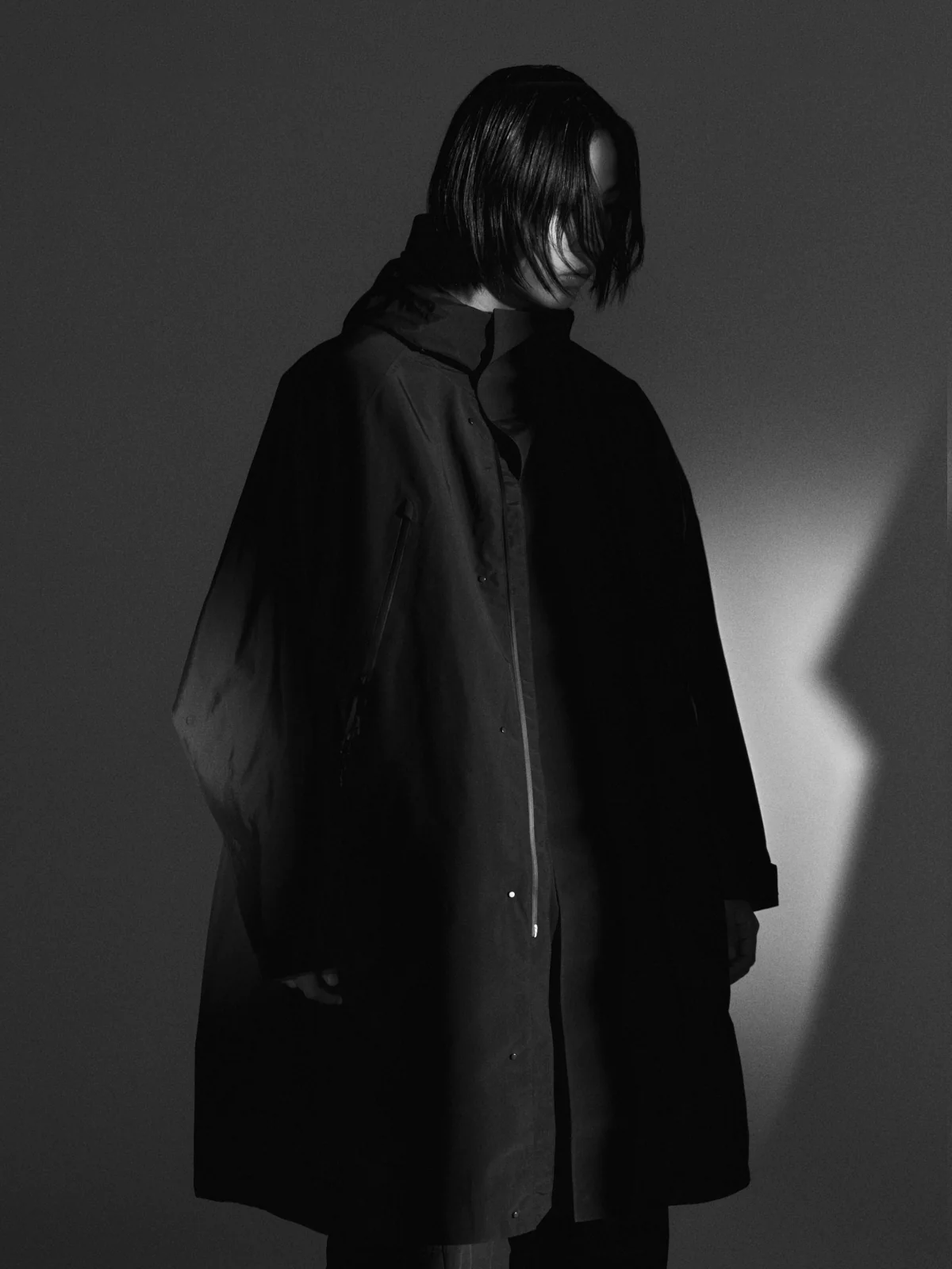
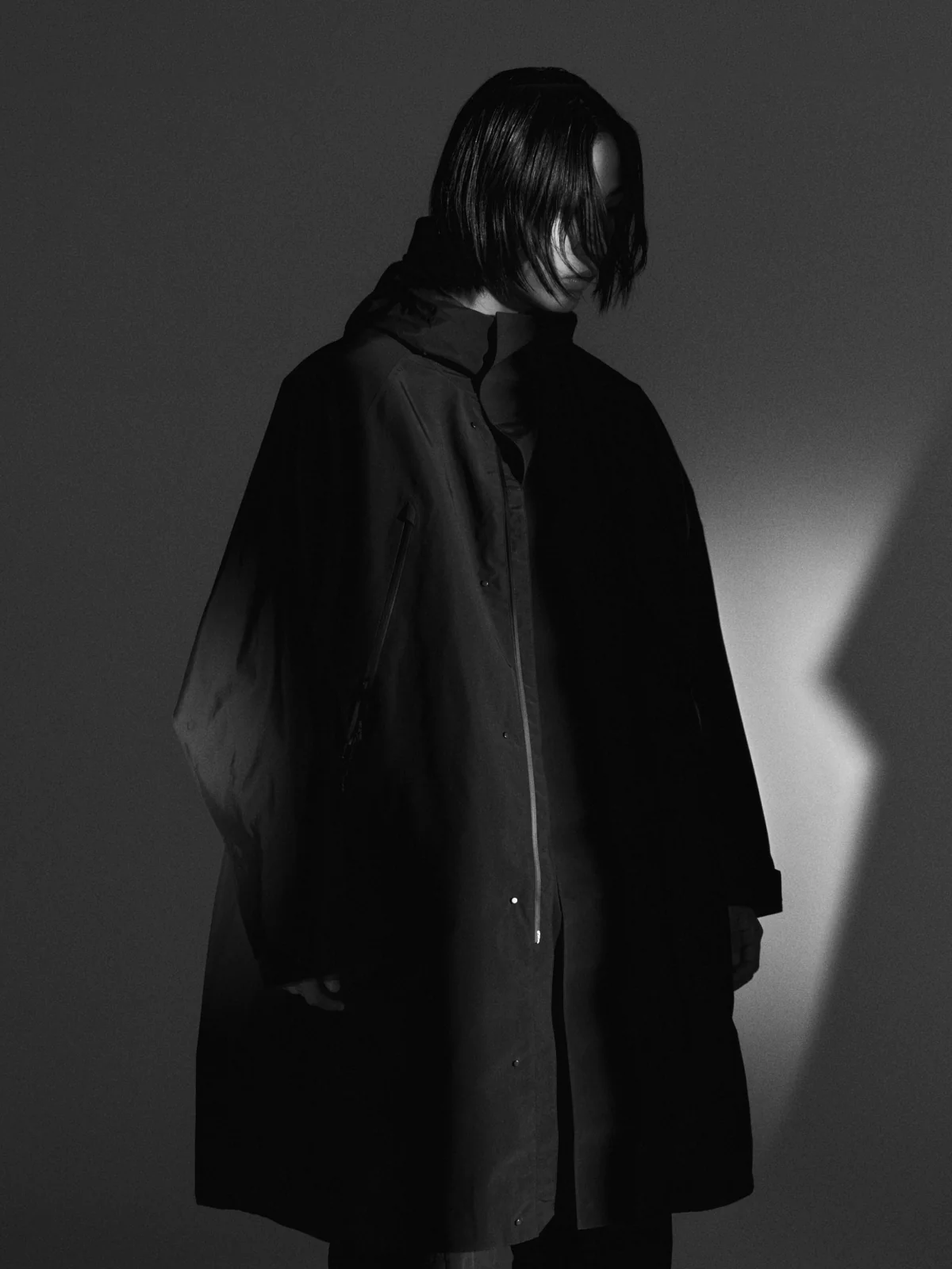
Collection: re-placed product shots, hover shot per card (Figma PD_Hover 2668:2497)

diff --git a/jp/index.html b/jp/index.html
@@ -38,7 +38,7 @@
   <link rel="stylesheet" href="https://cdn.jsdelivr.net/gh/orioncactus/pretendard@v1.3.9/dist/web/static/pretendard.min.css" />
   <link rel="stylesheet" href="https://fonts.googleapis.com/css2?family=Noto+Sans+JP:wght@400&display=swap" />
   <link rel="stylesheet" href="https://cdn.jsdelivr.net/gh/orioncactus/pretendard@v1.3.9/dist/web/static/pretendard-jp.min.css" />
-  <link rel="stylesheet" href="../style.css?v=20261012152353" />
+  <link rel="stylesheet" href="../style.css?v=20261012154044" />
   <script type="importmap">{ "imports": { "three": "https://unpkg.com/three@0.160.0/build/three.module.min.js" } }</script>
   <script>
     // The intro plays until it has been seen through once in this browsing
@@ -231,39 +231,39 @@
         <div class="collection__track" data-drag-scroll data-lenis-prevent-horizontal>
           <ul class="collection__strip">
           <li class="product">
-            <div class="product__media"><img src="../img/product-1@2x.webp" srcset="../img/product-1@1x.webp 600w, ../img/product-1@2x.webp 1200w" sizes="(max-width: 767px) 48vw, 315px" width="1200" height="1600" alt="" loading="lazy" /></div>
+            <div class="product__media"><img src="../img/product-1@2x.webp" srcset="../img/product-1@1x.webp 600w, ../img/product-1@2x.webp 1200w" sizes="(max-width: 767px) 48vw, 315px" width="1200" height="1600" alt="" loading="lazy" /><img src="../img/product-1-hover@2x.webp" srcset="../img/product-1-hover@1x.webp 600w, ../img/product-1-hover@2x.webp 1200w" sizes="(max-width: 767px) 48vw, 315px" width="1200" height="1600" alt="" loading="lazy" class="product__hover" /></div>
             <p class="product__name">SHELTER 3LAYER JUMPER</p>
           </li>
           <li class="product">
-            <div class="product__media"><img src="../img/product-2@2x.webp" srcset="../img/product-2@1x.webp 600w, ../img/product-2@2x.webp 1200w" sizes="(max-width: 767px) 48vw, 315px" width="1200" height="1600" alt="" loading="lazy" /></div>
+            <div class="product__media"><img src="../img/product-2@2x.webp" srcset="../img/product-2@1x.webp 600w, ../img/product-2@2x.webp 1200w" sizes="(max-width: 767px) 48vw, 315px" width="1200" height="1600" alt="" loading="lazy" /><img src="../img/product-2-hover@2x.webp" srcset="../img/product-2-hover@1x.webp 600w, ../img/product-2-hover@2x.webp 1200w" sizes="(max-width: 767px) 48vw, 315px" width="1200" height="1600" alt="" loading="lazy" class="product__hover" /></div>
             <p class="product__name">SHELTER 3LAYER JACKET</p>
           </li>
           <li class="product">
-            <div class="product__media"><img src="../img/product-3@2x.webp" srcset="../img/product-3@1x.webp 600w, ../img/product-3@2x.webp 1200w" sizes="(max-width: 767px) 48vw, 315px" width="1200" height="1600" alt="" loading="lazy" /></div>
+            <div class="product__media"><img src="../img/product-3@2x.webp" srcset="../img/product-3@1x.webp 600w, ../img/product-3@2x.webp 1200w" sizes="(max-width: 767px) 48vw, 315px" width="1200" height="1600" alt="" loading="lazy" /><img src="../img/product-3-hover@2x.webp" srcset="../img/product-3-hover@1x.webp 600w, ../img/product-3-hover@2x.webp 1200w" sizes="(max-width: 767px) 48vw, 315px" width="1200" height="1600" alt="" loading="lazy" class="product__hover" /></div>
             <p class="product__name">SHELTER 3LAYER COAT</p>
           </li>
           <li class="product">
-            <div class="product__media"><img src="../img/product-4@2x.webp" srcset="../img/product-4@1x.webp 600w, ../img/product-4@2x.webp 1200w" sizes="(max-width: 767px) 48vw, 315px" width="1200" height="1600" alt="" loading="lazy" /></div>
+            <div class="product__media"><img src="../img/product-4@2x.webp" srcset="../img/product-4@1x.webp 600w, ../img/product-4@2x.webp 1200w" sizes="(max-width: 767px) 48vw, 315px" width="1200" height="1600" alt="" loading="lazy" /><img src="../img/product-4-hover@2x.webp" srcset="../img/product-4-hover@1x.webp 600w, ../img/product-4-hover@2x.webp 1200w" sizes="(max-width: 767px) 48vw, 315px" width="1200" height="1600" alt="" loading="lazy" class="product__hover" /></div>
             <p class="product__name">EXOSHELL GOOSE DOWN PARKA</p>
           </li>
           <li class="product">
-            <div class="product__media"><img src="../img/product-5@2x.webp" srcset="../img/product-5@1x.webp 600w, ../img/product-5@2x.webp 1200w" sizes="(max-width: 767px) 48vw, 315px" width="1200" height="1600" alt="" loading="lazy" /></div>
+            <div class="product__media"><img src="../img/product-5@2x.webp" srcset="../img/product-5@1x.webp 600w, ../img/product-5@2x.webp 1200w" sizes="(max-width: 767px) 48vw, 315px" width="1200" height="1600" alt="" loading="lazy" /><img src="../img/product-5-hover@2x.webp" srcset="../img/product-5-hover@1x.webp 600w, ../img/product-5-hover@2x.webp 1200w" sizes="(max-width: 767px) 48vw, 315px" width="1200" height="1600" alt="" loading="lazy" class="product__hover" /></div>
             <p class="product__name">FRAME WOVEN S/S TEE</p>
           </li>
           <li class="product">
-            <div class="product__media"><img src="../img/product-6@2x.webp" srcset="../img/product-6@1x.webp 600w, ../img/product-6@2x.webp 1200w" sizes="(max-width: 767px) 48vw, 315px" width="1200" height="1600" alt="" loading="lazy" /></div>
+            <div class="product__media"><img src="../img/product-6@2x.webp" srcset="../img/product-6@1x.webp 600w, ../img/product-6@2x.webp 1200w" sizes="(max-width: 767px) 48vw, 315px" width="1200" height="1600" alt="" loading="lazy" /><img src="../img/product-6-hover@2x.webp" srcset="../img/product-6-hover@1x.webp 600w, ../img/product-6-hover@2x.webp 1200w" sizes="(max-width: 767px) 48vw, 315px" width="1200" height="1600" alt="" loading="lazy" class="product__hover" /></div>
             <p class="product__name">FRAME WAFFLE L/S TEE</p>
           </li>
           <li class="product">
-            <div class="product__media"><img src="../img/product-7@2x.webp" srcset="../img/product-7@1x.webp 600w, ../img/product-7@2x.webp 1200w" sizes="(max-width: 767px) 48vw, 315px" width="1200" height="1600" alt="" loading="lazy" /></div>
+            <div class="product__media"><img src="../img/product-7@2x.webp" srcset="../img/product-7@1x.webp 600w, ../img/product-7@2x.webp 1200w" sizes="(max-width: 767px) 48vw, 315px" width="1200" height="1600" alt="" loading="lazy" /><img src="../img/product-7-hover@2x.webp" srcset="../img/product-7-hover@1x.webp 600w, ../img/product-7-hover@2x.webp 1200w" sizes="(max-width: 767px) 48vw, 315px" width="1200" height="1600" alt="" loading="lazy" class="product__hover" /></div>
             <p class="product__name">FRAME TWILL HOODIE</p>
           </li>
           <li class="product">
-            <div class="product__media"><img src="../img/product-8@2x.webp" srcset="../img/product-8@1x.webp 600w, ../img/product-8@2x.webp 1200w" sizes="(max-width: 767px) 48vw, 315px" width="1200" height="1600" alt="" loading="lazy" /></div>
+            <div class="product__media"><img src="../img/product-8@2x.webp" srcset="../img/product-8@1x.webp 600w, ../img/product-8@2x.webp 1200w" sizes="(max-width: 767px) 48vw, 315px" width="1200" height="1600" alt="" loading="lazy" /><img src="../img/product-8-hover@2x.webp" srcset="../img/product-8-hover@1x.webp 600w, ../img/product-8-hover@2x.webp 1200w" sizes="(max-width: 767px) 48vw, 315px" width="1200" height="1600" alt="" loading="lazy" class="product__hover" /></div>
             <p class="product__name">SHELTER NYLON TROUSERS</p>
           </li>
           <li class="product">
-            <div class="product__media"><img src="../img/product-9@2x.webp" srcset="../img/product-9@1x.webp 600w, ../img/product-9@2x.webp 1200w" sizes="(max-width: 767px) 48vw, 315px" width="1200" height="1600" alt="" loading="lazy" /></div>
+            <div class="product__media"><img src="../img/product-9@2x.webp" srcset="../img/product-9@1x.webp 600w, ../img/product-9@2x.webp 1200w" sizes="(max-width: 767px) 48vw, 315px" width="1200" height="1600" alt="" loading="lazy" /><img src="../img/product-9-hover@2x.webp" srcset="../img/product-9-hover@1x.webp 600w, ../img/product-9-hover@2x.webp 1200w" sizes="(max-width: 767px) 48vw, 315px" width="1200" height="1600" alt="" loading="lazy" class="product__hover" /></div>
             <p class="product__name">SHELTER CORDUROY TROUSERS</p>
           </li>
           </ul>
@@ -293,7 +293,7 @@
   </main>
 
   <script src="https://cdn.jsdelivr.net/npm/lenis@1.3.26/dist/lenis.min.js"></script>
-  <script src="../main.js?v=20261012152353"></script>
-  <script type="module" src="../intro/intro.js?v=20261012152353" onerror="window.aansSkipIntro && window.aansSkipIntro()"></script>
+  <script src="../main.js?v=20261012154044"></script>
+  <script type="module" src="../intro/intro.js?v=20261012154044" onerror="window.aansSkipIntro && window.aansSkipIntro()"></script>
 </body>
 </html>

diff --git a/kr/index.html b/kr/index.html
@@ -36,7 +36,7 @@
   <link rel="preconnect" href="https://fonts.gstatic.com" crossorigin />
   <link rel="stylesheet" href="https://fonts.googleapis.com/css2?family=Oswald:wght@300;400;500&display=swap" />
   <link rel="stylesheet" href="https://cdn.jsdelivr.net/gh/orioncactus/pretendard@v1.3.9/dist/web/static/pretendard.min.css" />
-  <link rel="stylesheet" href="../style.css?v=20261012152353" />
+  <link rel="stylesheet" href="../style.css?v=20261012154044" />
   <script type="importmap">{ "imports": { "three": "https://unpkg.com/three@0.160.0/build/three.module.min.js" } }</script>
   <script>
     // The intro plays until it has been seen through once in this browsing
@@ -229,39 +229,39 @@
         <div class="collection__track" data-drag-scroll data-lenis-prevent-horizontal>
           <ul class="collection__strip">
           <li class="product">
-            <div class="product__media"><img src="../img/product-1@2x.webp" srcset="../img/product-1@1x.webp 600w, ../img/product-1@2x.webp 1200w" sizes="(max-width: 767px) 48vw, 315px" width="1200" height="1600" alt="" loading="lazy" /></div>
+            <div class="product__media"><img src="../img/product-1@2x.webp" srcset="../img/product-1@1x.webp 600w, ../img/product-1@2x.webp 1200w" sizes="(max-width: 767px) 48vw, 315px" width="1200" height="1600" alt="" loading="lazy" /><img src="../img/product-1-hover@2x.webp" srcset="../img/product-1-hover@1x.webp 600w, ../img/product-1-hover@2x.webp 1200w" sizes="(max-width: 767px) 48vw, 315px" width="1200" height="1600" alt="" loading="lazy" class="product__hover" /></div>
             <p class="product__name">SHELTER 3LAYER JUMPER</p>
           </li>
           <li class="product">
-            <div class="product__media"><img src="../img/product-2@2x.webp" srcset="../img/product-2@1x.webp 600w, ../img/product-2@2x.webp 1200w" sizes="(max-width: 767px) 48vw, 315px" width="1200" height="1600" alt="" loading="lazy" /></div>
+            <div class="product__media"><img src="../img/product-2@2x.webp" srcset="../img/product-2@1x.webp 600w, ../img/product-2@2x.webp 1200w" sizes="(max-width: 767px) 48vw, 315px" width="1200" height="1600" alt="" loading="lazy" /><img src="../img/product-2-hover@2x.webp" srcset="../img/product-2-hover@1x.webp 600w, ../img/product-2-hover@2x.webp 1200w" sizes="(max-width: 767px) 48vw, 315px" width="1200" height="1600" alt="" loading="lazy" class="product__hover" /></div>
             <p class="product__name">SHELTER 3LAYER JACKET</p>
           </li>
           <li class="product">
-            <div class="product__media"><img src="../img/product-3@2x.webp" srcset="../img/product-3@1x.webp 600w, ../img/product-3@2x.webp 1200w" sizes="(max-width: 767px) 48vw, 315px" width="1200" height="1600" alt="" loading="lazy" /></div>
+            <div class="product__media"><img src="../img/product-3@2x.webp" srcset="../img/product-3@1x.webp 600w, ../img/product-3@2x.webp 1200w" sizes="(max-width: 767px) 48vw, 315px" width="1200" height="1600" alt="" loading="lazy" /><img src="../img/product-3-hover@2x.webp" srcset="../img/product-3-hover@1x.webp 600w, ../img/product-3-hover@2x.webp 1200w" sizes="(max-width: 767px) 48vw, 315px" width="1200" height="1600" alt="" loading="lazy" class="product__hover" /></div>
             <p class="product__name">SHELTER 3LAYER COAT</p>
           </li>
           <li class="product">
-            <div class="product__media"><img src="../img/product-4@2x.webp" srcset="../img/product-4@1x.webp 600w, ../img/product-4@2x.webp 1200w" sizes="(max-width: 767px) 48vw, 315px" width="1200" height="1600" alt="" loading="lazy" /></div>
+            <div class="product__media"><img src="../img/product-4@2x.webp" srcset="../img/product-4@1x.webp 600w, ../img/product-4@2x.webp 1200w" sizes="(max-width: 767px) 48vw, 315px" width="1200" height="1600" alt="" loading="lazy" /><img src="../img/product-4-hover@2x.webp" srcset="../img/product-4-hover@1x.webp 600w, ../img/product-4-hover@2x.webp 1200w" sizes="(max-width: 767px) 48vw, 315px" width="1200" height="1600" alt="" loading="lazy" class="product__hover" /></div>
             <p class="product__name">EXOSHELL GOOSE DOWN PARKA</p>
           </li>
           <li class="product">
-            <div class="product__media"><img src="../img/product-5@2x.webp" srcset="../img/product-5@1x.webp 600w, ../img/product-5@2x.webp 1200w" sizes="(max-width: 767px) 48vw, 315px" width="1200" height="1600" alt="" loading="lazy" /></div>
+            <div class="product__media"><img src="../img/product-5@2x.webp" srcset="../img/product-5@1x.webp 600w, ../img/product-5@2x.webp 1200w" sizes="(max-width: 767px) 48vw, 315px" width="1200" height="1600" alt="" loading="lazy" /><img src="../img/product-5-hover@2x.webp" srcset="../img/product-5-hover@1x.webp 600w, ../img/product-5-hover@2x.webp 1200w" sizes="(max-width: 767px) 48vw, 315px" width="1200" height="1600" alt="" loading="lazy" class="product__hover" /></div>
             <p class="product__name">FRAME WOVEN S/S TEE</p>
           </li>
           <li class="product">
-            <div class="product__media"><img src="../img/product-6@2x.webp" srcset="../img/product-6@1x.webp 600w, ../img/product-6@2x.webp 1200w" sizes="(max-width: 767px) 48vw, 315px" width="1200" height="1600" alt="" loading="lazy" /></div>
+            <div class="product__media"><img src="../img/product-6@2x.webp" srcset="../img/product-6@1x.webp 600w, ../img/product-6@2x.webp 1200w" sizes="(max-width: 767px) 48vw, 315px" width="1200" height="1600" alt="" loading="lazy" /><img src="../img/product-6-hover@2x.webp" srcset="../img/product-6-hover@1x.webp 600w, ../img/product-6-hover@2x.webp 1200w" sizes="(max-width: 767px) 48vw, 315px" width="1200" height="1600" alt="" loading="lazy" class="product__hover" /></div>
             <p class="product__name">FRAME WAFFLE L/S TEE</p>
           </li>
           <li class="product">
-            <div class="product__media"><img src="../img/product-7@2x.webp" srcset="../img/product-7@1x.webp 600w, ../img/product-7@2x.webp 1200w" sizes="(max-width: 767px) 48vw, 315px" width="1200" height="1600" alt="" loading="lazy" /></div>
+            <div class="product__media"><img src="../img/product-7@2x.webp" srcset="../img/product-7@1x.webp 600w, ../img/product-7@2x.webp 1200w" sizes="(max-width: 767px) 48vw, 315px" width="1200" height="1600" alt="" loading="lazy" /><img src="../img/product-7-hover@2x.webp" srcset="../img/product-7-hover@1x.webp 600w, ../img/product-7-hover@2x.webp 1200w" sizes="(max-width: 767px) 48vw, 315px" width="1200" height="1600" alt="" loading="lazy" class="product__hover" /></div>
             <p class="product__name">FRAME TWILL HOODIE</p>
           </li>
           <li class="product">
-            <div class="product__media"><img src="../img/product-8@2x.webp" srcset="../img/product-8@1x.webp 600w, ../img/product-8@2x.webp 1200w" sizes="(max-width: 767px) 48vw, 315px" width="1200" height="1600" alt="" loading="lazy" /></div>
+            <div class="product__media"><img src="../img/product-8@2x.webp" srcset="../img/product-8@1x.webp 600w, ../img/product-8@2x.webp 1200w" sizes="(max-width: 767px) 48vw, 315px" width="1200" height="1600" alt="" loading="lazy" /><img src="../img/product-8-hover@2x.webp" srcset="../img/product-8-hover@1x.webp 600w, ../img/product-8-hover@2x.webp 1200w" sizes="(max-width: 767px) 48vw, 315px" width="1200" height="1600" alt="" loading="lazy" class="product__hover" /></div>
             <p class="product__name">SHELTER NYLON TROUSERS</p>
           </li>
           <li class="product">
-            <div class="product__media"><img src="../img/product-9@2x.webp" srcset="../img/product-9@1x.webp 600w, ../img/product-9@2x.webp 1200w" sizes="(max-width: 767px) 48vw, 315px" width="1200" height="1600" alt="" loading="lazy" /></div>
+            <div class="product__media"><img src="../img/product-9@2x.webp" srcset="../img/product-9@1x.webp 600w, ../img/product-9@2x.webp 1200w" sizes="(max-width: 767px) 48vw, 315px" width="1200" height="1600" alt="" loading="lazy" /><img src="../img/product-9-hover@2x.webp" srcset="../img/product-9-hover@1x.webp 600w, ../img/product-9-hover@2x.webp 1200w" sizes="(max-width: 767px) 48vw, 315px" width="1200" height="1600" alt="" loading="lazy" class="product__hover" /></div>
             <p class="product__name">SHELTER CORDUROY TROUSERS</p>
           </li>
           </ul>
@@ -291,7 +291,7 @@
   </main>
 
   <script src="https://cdn.jsdelivr.net/npm/lenis@1.3.26/dist/lenis.min.js"></script>
-  <script src="../main.js?v=20261012152353"></script>
-  <script type="module" src="../intro/intro.js?v=20261012152353" onerror="window.aansSkipIntro && window.aansSkipIntro()"></script>
+  <script src="../main.js?v=20261012154044"></script>
+  <script type="module" src="../intro/intro.js?v=20261012154044" onerror="window.aansSkipIntro && window.aansSkipIntro()"></script>
 </body>
 </html>

diff --git a/index.html b/index.html
@@ -37,7 +37,7 @@
   <link rel="stylesheet" href="https://fonts.googleapis.com/css2?family=Oswald:wght@300;400;500&display=swap" />
   <link rel="stylesheet" href="https://cdn.jsdelivr.net/gh/orioncactus/pretendard@v1.3.9/dist/web/static/pretendard.min.css" />
   <link rel="stylesheet" href="https://fonts.googleapis.com/css2?family=Inter:wght@400&display=swap" />
-  <link rel="stylesheet" href="style.css?v=20261012152353" />
+  <link rel="stylesheet" href="style.css?v=20261012154044" />
   <script type="importmap">{ "imports": { "three": "https://unpkg.com/three@0.160.0/build/three.module.min.js" } }</script>
   <script>
     // The intro plays until it has been seen through once in this browsing
@@ -230,39 +230,39 @@
         <div class="collection__track" data-drag-scroll data-lenis-prevent-horizontal>
           <ul class="collection__strip">
           <li class="product">
-            <div class="product__media"><img src="img/product-1@2x.webp" srcset="img/product-1@1x.webp 600w, img/product-1@2x.webp 1200w" sizes="(max-width: 767px) 48vw, 315px" width="1200" height="1600" alt="" loading="lazy" /></div>
+            <div class="product__media"><img src="img/product-1@2x.webp" srcset="img/product-1@1x.webp 600w, img/product-1@2x.webp 1200w" sizes="(max-width: 767px) 48vw, 315px" width="1200" height="1600" alt="" loading="lazy" /><img src="img/product-1-hover@2x.webp" srcset="img/product-1-hover@1x.webp 600w, img/product-1-hover@2x.webp 1200w" sizes="(max-width: 767px) 48vw, 315px" width="1200" height="1600" alt="" loading="lazy" class="product__hover" /></div>
             <p class="product__name">SHELTER 3LAYER JUMPER</p>
           </li>
           <li class="product">
-            <div class="product__media"><img src="img/product-2@2x.webp" srcset="img/product-2@1x.webp 600w, img/product-2@2x.webp 1200w" sizes="(max-width: 767px) 48vw, 315px" width="1200" height="1600" alt="" loading="lazy" /></div>
+            <div class="product__media"><img src="img/product-2@2x.webp" srcset="img/product-2@1x.webp 600w, img/product-2@2x.webp 1200w" sizes="(max-width: 767px) 48vw, 315px" width="1200" height="1600" alt="" loading="lazy" /><img src="img/product-2-hover@2x.webp" srcset="img/product-2-hover@1x.webp 600w, img/product-2-hover@2x.webp 1200w" sizes="(max-width: 767px) 48vw, 315px" width="1200" height="1600" alt="" loading="lazy" class="product__hover" /></div>
             <p class="product__name">SHELTER 3LAYER JACKET</p>
           </li>
           <li class="product">
-            <div class="product__media"><img src="img/product-3@2x.webp" srcset="img/product-3@1x.webp 600w, img/product-3@2x.webp 1200w" sizes="(max-width: 767px) 48vw, 315px" width="1200" height="1600" alt="" loading="lazy" /></div>
+            <div class="product__media"><img src="img/product-3@2x.webp" srcset="img/product-3@1x.webp 600w, img/product-3@2x.webp 1200w" sizes="(max-width: 767px) 48vw, 315px" width="1200" height="1600" alt="" loading="lazy" /><img src="img/product-3-hover@2x.webp" srcset="img/product-3-hover@1x.webp 600w, img/product-3-hover@2x.webp 1200w" sizes="(max-width: 767px) 48vw, 315px" width="1200" height="1600" alt="" loading="lazy" class="product__hover" /></div>
             <p class="product__name">SHELTER 3LAYER COAT</p>
           </li>
           <li class="product">
-            <div class="product__media"><img src="img/product-4@2x.webp" srcset="img/product-4@1x.webp 600w, img/product-4@2x.webp 1200w" sizes="(max-width: 767px) 48vw, 315px" width="1200" height="1600" alt="" loading="lazy" /></div>
+            <div class="product__media"><img src="img/product-4@2x.webp" srcset="img/product-4@1x.webp 600w, img/product-4@2x.webp 1200w" sizes="(max-width: 767px) 48vw, 315px" width="1200" height="1600" alt="" loading="lazy" /><img src="img/product-4-hover@2x.webp" srcset="img/product-4-hover@1x.webp 600w, img/product-4-hover@2x.webp 1200w" sizes="(max-width: 767px) 48vw, 315px" width="1200" height="1600" alt="" loading="lazy" class="product__hover" /></div>
             <p class="product__name">EXOSHELL GOOSE DOWN PARKA</p>
           </li>
           <li class="product">
-            <div class="product__media"><img src="img/product-5@2x.webp" srcset="img/product-5@1x.webp 600w, img/product-5@2x.webp 1200w" sizes="(max-width: 767px) 48vw, 315px" width="1200" height="1600" alt="" loading="lazy" /></div>
+            <div class="product__media"><img src="img/product-5@2x.webp" srcset="img/product-5@1x.webp 600w, img/product-5@2x.webp 1200w" sizes="(max-width: 767px) 48vw, 315px" width="1200" height="1600" alt="" loading="lazy" /><img src="img/product-5-hover@2x.webp" srcset="img/product-5-hover@1x.webp 600w, img/product-5-hover@2x.webp 1200w" sizes="(max-width: 767px) 48vw, 315px" width="1200" height="1600" alt="" loading="lazy" class="product__hover" /></div>
             <p class="product__name">FRAME WOVEN S/S TEE</p>
           </li>
           <li class="product">
-            <div class="product__media"><img src="img/product-6@2x.webp" srcset="img/product-6@1x.webp 600w, img/product-6@2x.webp 1200w" sizes="(max-width: 767px) 48vw, 315px" width="1200" height="1600" alt="" loading="lazy" /></div>
+            <div class="product__media"><img src="img/product-6@2x.webp" srcset="img/product-6@1x.webp 600w, img/product-6@2x.webp 1200w" sizes="(max-width: 767px) 48vw, 315px" width="1200" height="1600" alt="" loading="lazy" /><img src="img/product-6-hover@2x.webp" srcset="img/product-6-hover@1x.webp 600w, img/product-6-hover@2x.webp 1200w" sizes="(max-width: 767px) 48vw, 315px" width="1200" height="1600" alt="" loading="lazy" class="product__hover" /></div>
             <p class="product__name">FRAME WAFFLE L/S TEE</p>
           </li>
           <li class="product">
-            <div class="product__media"><img src="img/product-7@2x.webp" srcset="img/product-7@1x.webp 600w, img/product-7@2x.webp 1200w" sizes="(max-width: 767px) 48vw, 315px" width="1200" height="1600" alt="" loading="lazy" /></div>
+            <div class="product__media"><img src="img/product-7@2x.webp" srcset="img/product-7@1x.webp 600w, img/product-7@2x.webp 1200w" sizes="(max-width: 767px) 48vw, 315px" width="1200" height="1600" alt="" loading="lazy" /><img src="img/product-7-hover@2x.webp" srcset="img/product-7-hover@1x.webp 600w, img/product-7-hover@2x.webp 1200w" sizes="(max-width: 767px) 48vw, 315px" width="1200" height="1600" alt="" loading="lazy" class="product__hover" /></div>
             <p class="product__name">FRAME TWILL HOODIE</p>
           </li>
           <li class="product">
-            <div class="product__media"><img src="img/product-8@2x.webp" srcset="img/product-8@1x.webp 600w, img/product-8@2x.webp 1200w" sizes="(max-width: 767px) 48vw, 315px" width="1200" height="1600" alt="" loading="lazy" /></div>
+            <div class="product__media"><img src="img/product-8@2x.webp" srcset="img/product-8@1x.webp 600w, img/product-8@2x.webp 1200w" sizes="(max-width: 767px) 48vw, 315px" width="1200" height="1600" alt="" loading="lazy" /><img src="img/product-8-hover@2x.webp" srcset="img/product-8-hover@1x.webp 600w, img/product-8-hover@2x.webp 1200w" sizes="(max-width: 767px) 48vw, 315px" width="1200" height="1600" alt="" loading="lazy" class="product__hover" /></div>
             <p class="product__name">SHELTER NYLON TROUSERS</p>
           </li>
           <li class="product">
-            <div class="product__media"><img src="img/product-9@2x.webp" srcset="img/product-9@1x.webp 600w, img/product-9@2x.webp 1200w" sizes="(max-width: 767px) 48vw, 315px" width="1200" height="1600" alt="" loading="lazy" /></div>
+            <div class="product__media"><img src="img/product-9@2x.webp" srcset="img/product-9@1x.webp 600w, img/product-9@2x.webp 1200w" sizes="(max-width: 767px) 48vw, 315px" width="1200" height="1600" alt="" loading="lazy" /><img src="img/product-9-hover@2x.webp" srcset="img/product-9-hover@1x.webp 600w, img/product-9-hover@2x.webp 1200w" sizes="(max-width: 767px) 48vw, 315px" width="1200" height="1600" alt="" loading="lazy" class="product__hover" /></div>
             <p class="product__name">SHELTER CORDUROY TROUSERS</p>
           </li>
           </ul>
@@ -292,7 +292,7 @@
   </main>
 
   <script src="https://cdn.jsdelivr.net/npm/lenis@1.3.26/dist/lenis.min.js"></script>
-  <script src="main.js?v=20261012152353"></script>
-  <script type="module" src="intro/intro.js?v=20261012152353" onerror="window.aansSkipIntro && window.aansSkipIntro()"></script>
+  <script src="main.js?v=20261012154044"></script>
+  <script type="module" src="intro/intro.js?v=20261012154044" onerror="window.aansSkipIntro && window.aansSkipIntro()"></script>
 </body>
 </html>

diff --git a/style.css b/style.css
@@ -783,6 +783,19 @@ html[lang="en"] .body {
   pointer-events: none;
 }
 
+/* Second shot (Figma PD_Hover 2668:2497) laid over the first, shown on hover
+   on devices with a real pointer */
+.product__media .product__hover {
+  position: absolute;
+  inset: 0;
+  opacity: 0;
+  transition: opacity 0.45s cubic-bezier(0.22, 1, 0.36, 1);
+}
+
+@media (hover: hover) {
+  .product:hover .product__hover { opacity: 1; }
+}
+
 .product__name {
   text-align: center;
   font-family: var(--font-en);

diff --git a/intro/intro.js b/intro/intro.js
@@ -1,6 +1,6 @@
 import * as THREE from "three";
-import { VERTEX_SHADER, FRAGMENT_SHADER } from "./shaders.js?v=20261012152353";
-import { loadLogoTexture } from "./logoTexture.js?v=20261012152353";
+import { VERTEX_SHADER, FRAGMENT_SHADER } from "./shaders.js?v=20261012154044";
+import { loadLogoTexture } from "./logoTexture.js?v=20261012154044";
 
 // Intro (Figma A_Intro, 2597:1545), layered over the top of the home page.
 //

diff --git a/intro/logoTexture.js b/intro/logoTexture.js
@@ -1,5 +1,5 @@
 import * as THREE from "three";
-import { signedDistanceField } from "./sdf.js?v=20261012152353";
+import { signedDistanceField } from "./sdf.js?v=20261012154044";
 
 // Rasterizes the logo's SVG path(s) FILLED onto an offscreen canvas, then
 // bakes a real signed distance field from that mask (see sdf.js). The shader

diff --git a/tools/build.py b/tools/build.py
@@ -103,7 +103,8 @@ LANGS = {k: LANGS[k] for k in ("en", "jp", "kr")}
 
 STORY_EN = ["EASTERN STRUCTURE", "URBAN ENCLOSURE", "NOIR DENSITY"]
 STORY_IMG = ["08-2652_A-1", "09-2673_B-1", "08-2608_B-2"]
-PRODUCTS = [  # in collection order; photos are img/product-1…9 (Figma PD_list 2668:2491)
+PRODUCTS = [  # in collection order; photos are img/product-1…9 (Figma PD_list 2668:2491),
+              # hover shots img/product-1…9-hover (PD_Hover 2668:2497)
     "SHELTER 3LAYER JUMPER",
     "SHELTER 3LAYER JACKET",
     "SHELTER 3LAYER COAT",
@@ -325,7 +326,7 @@ def page(key):
     </section>''')
 
     products = "\n".join(f'''          <li class="product">
-            <div class="product__media">{img(f"product-{i}", "(max-width: 767px) 48vw, 315px")}</div>
+            <div class="product__media">{img(f"product-{i}", "(max-width: 767px) 48vw, 315px")}{img(f"product-{i}-hover", "(max-width: 767px) 48vw, 315px", extra=' class="product__hover"')}</div>
             <p class="product__name">{n}</p>
           </li>''' for i, n in enumerate(PRODUCTS, 1))
 
